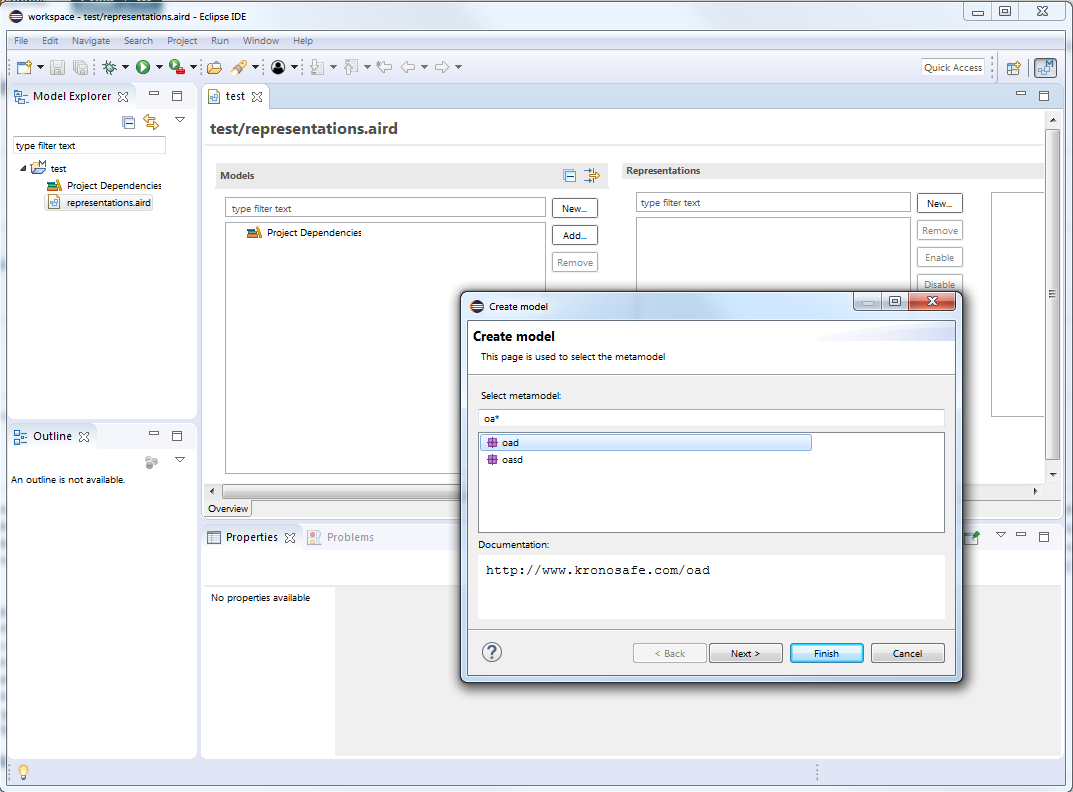
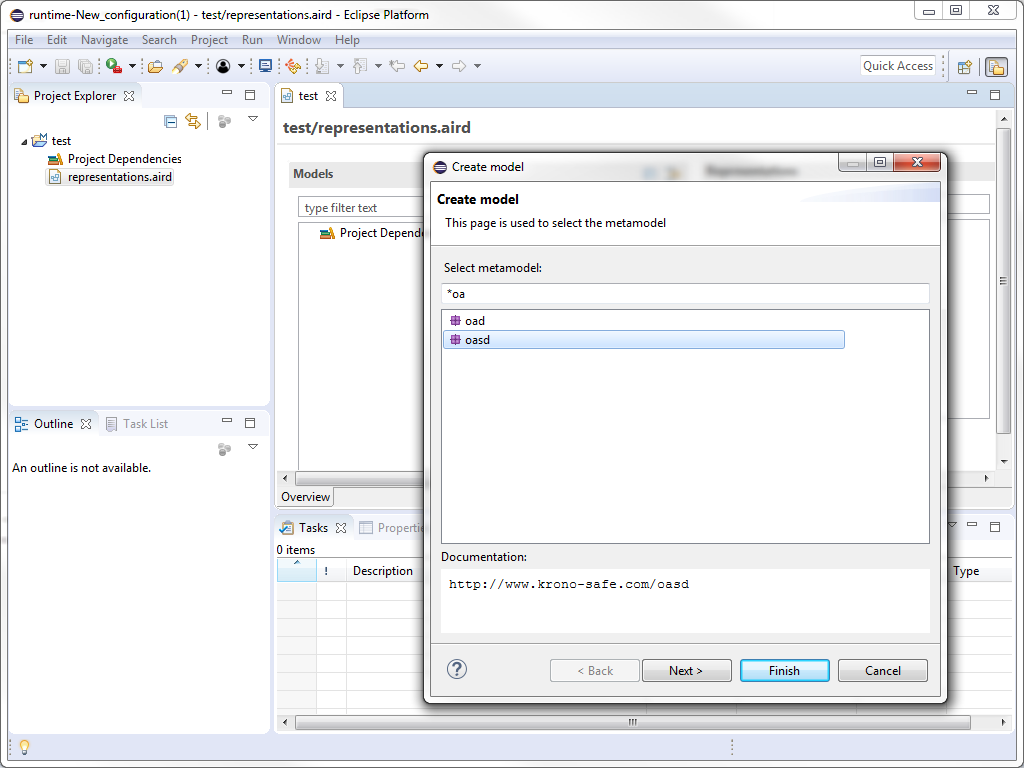
fix:update url and image for [KSUIT-2183]

Changed region(s): [[0.0, 0.0, 1.0, 1.0]]

diff --git a/plugins/com.kronosafe.osd/model/osd.html b/plugins/com.kronosafe.osd/model/osd.html
@@ -1,5 +1,5 @@
 <!-- This file was created using the HTML documentation generator. -->
-<!-- Creation date: Thu Jul 18 15:04:14 CEST 2019-->
+<!-- Creation date: Wed Jul 24 14:42:33 CEST 2019-->
 <!DOCTYPE html PUBLIC "-//W3C//DTD XHTML 1.0 Transitional//EN" "http://www.w3.org/TR/xhtml1/DTD/xhtml1-transitional.dtd">
 <html xmlns="http://www.w3.org/1999/xhtml">
 	<head>
